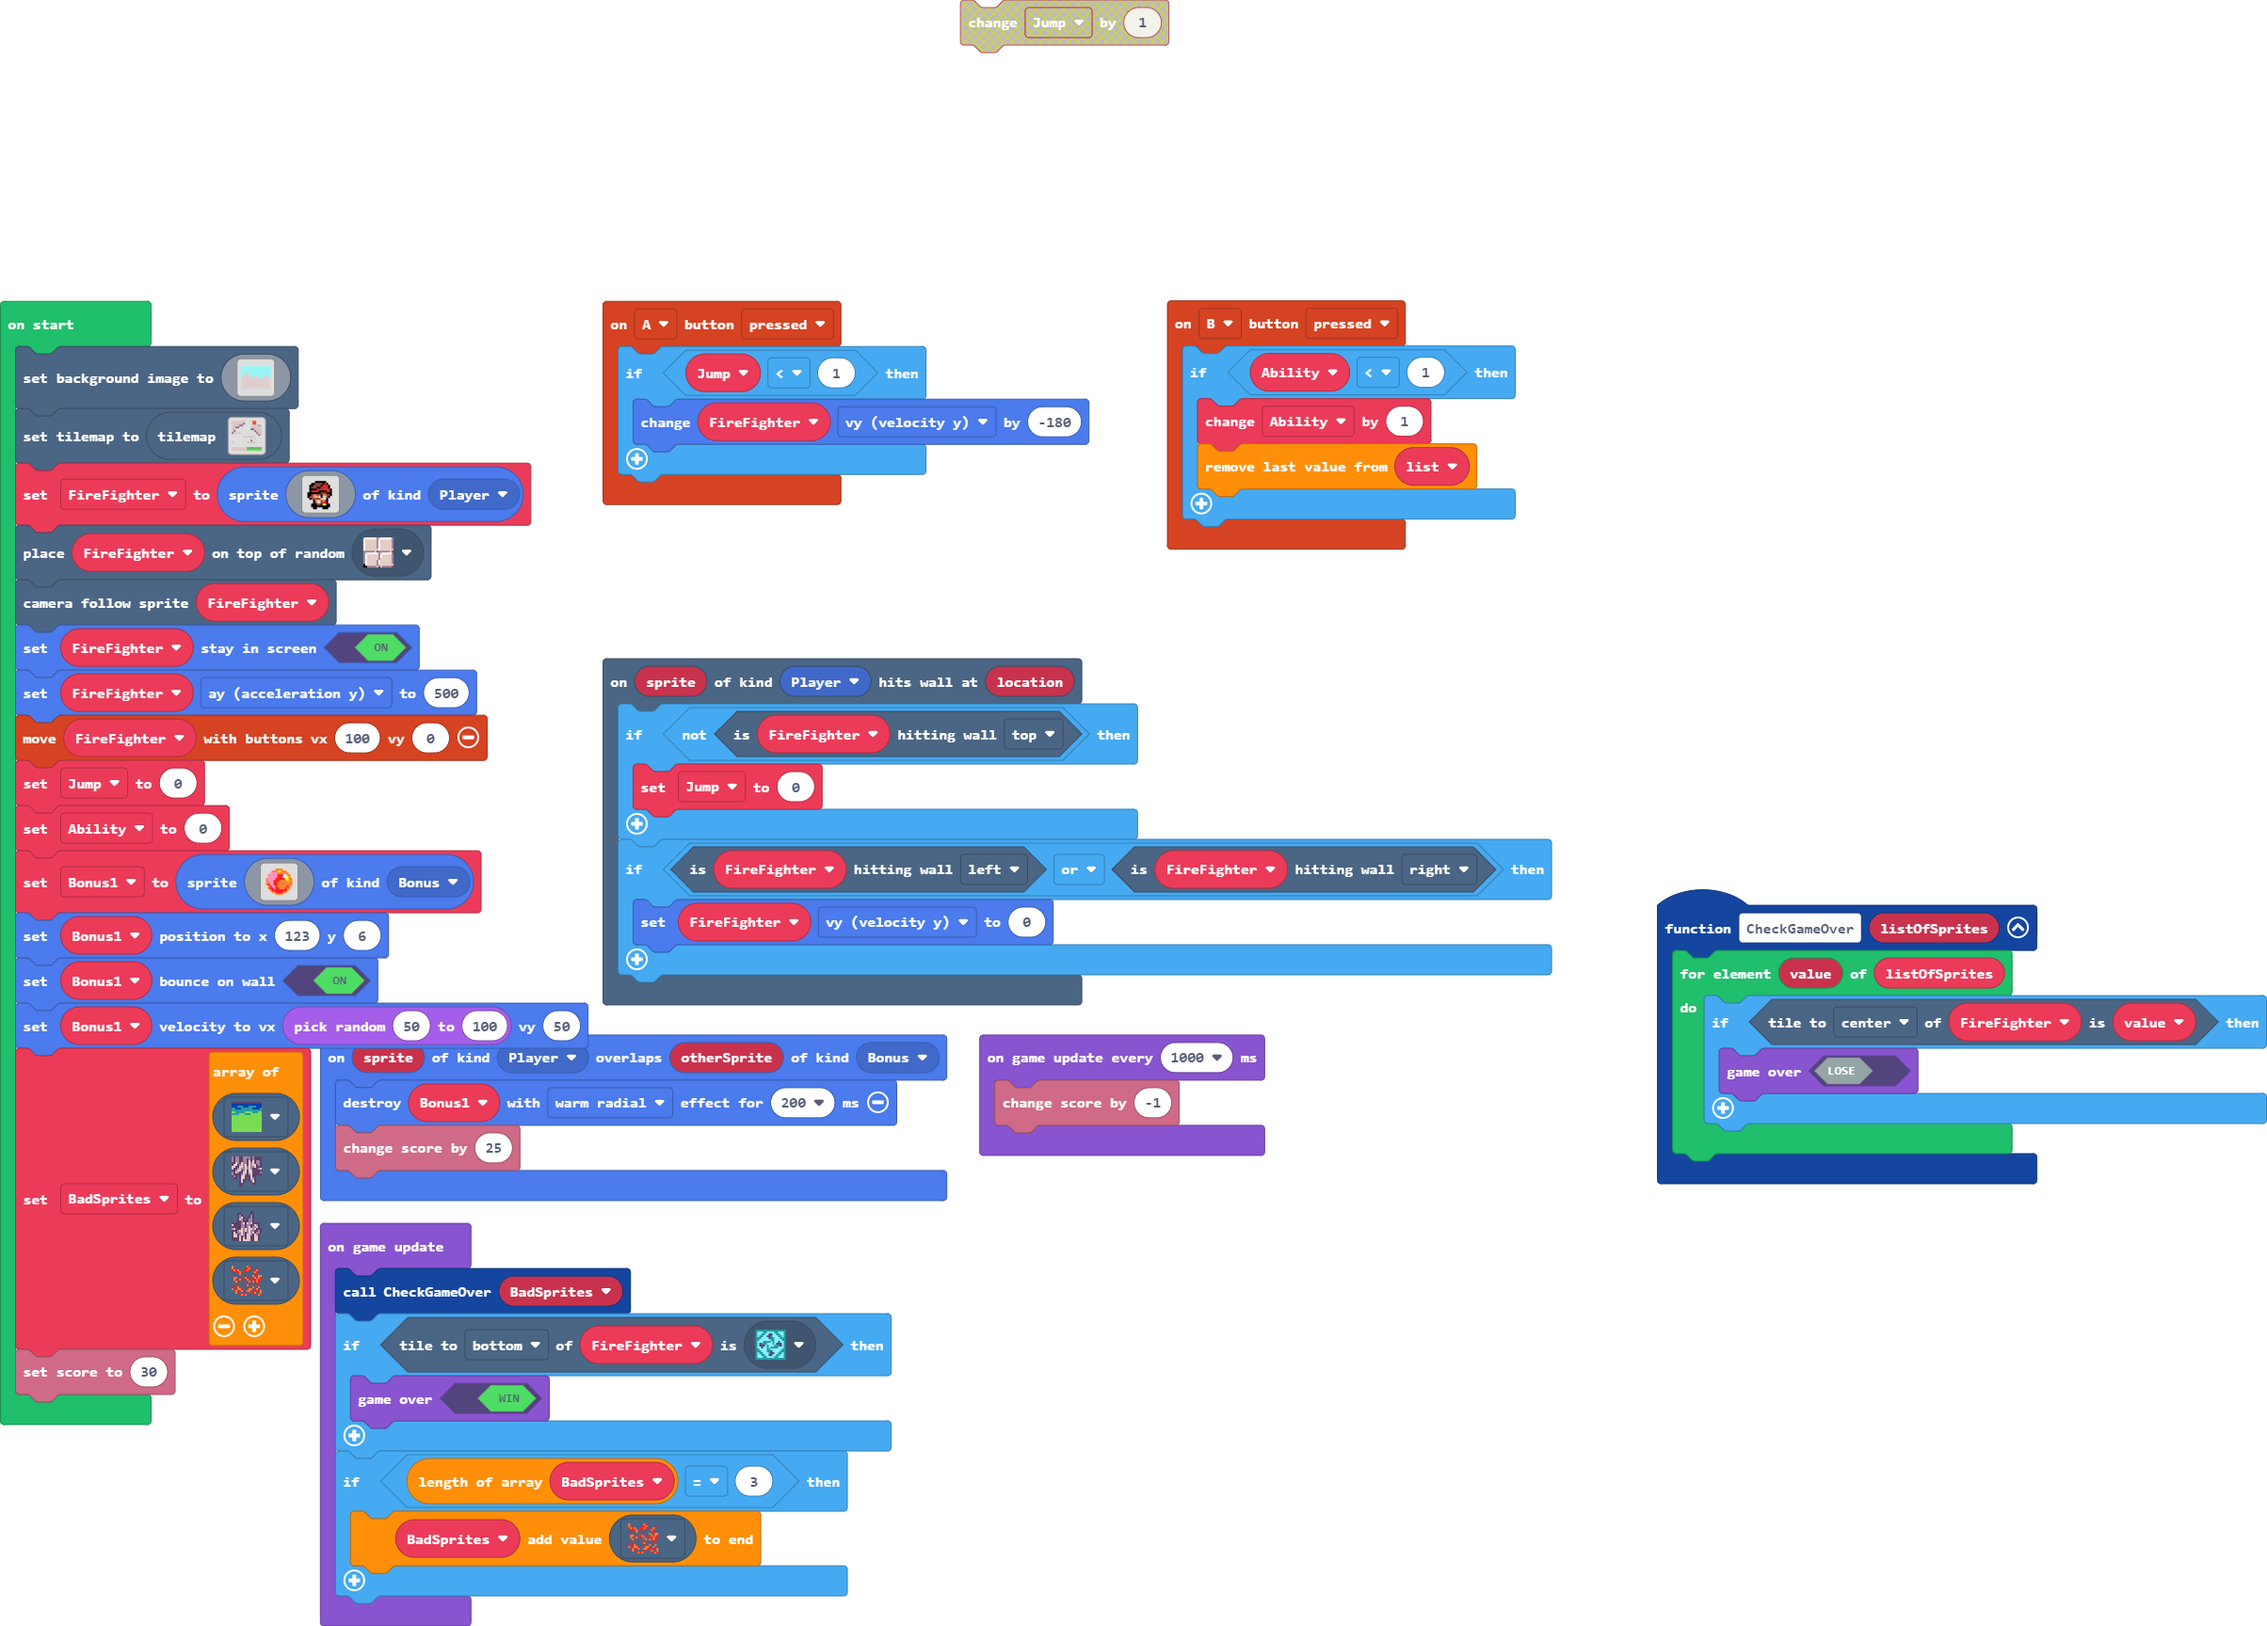
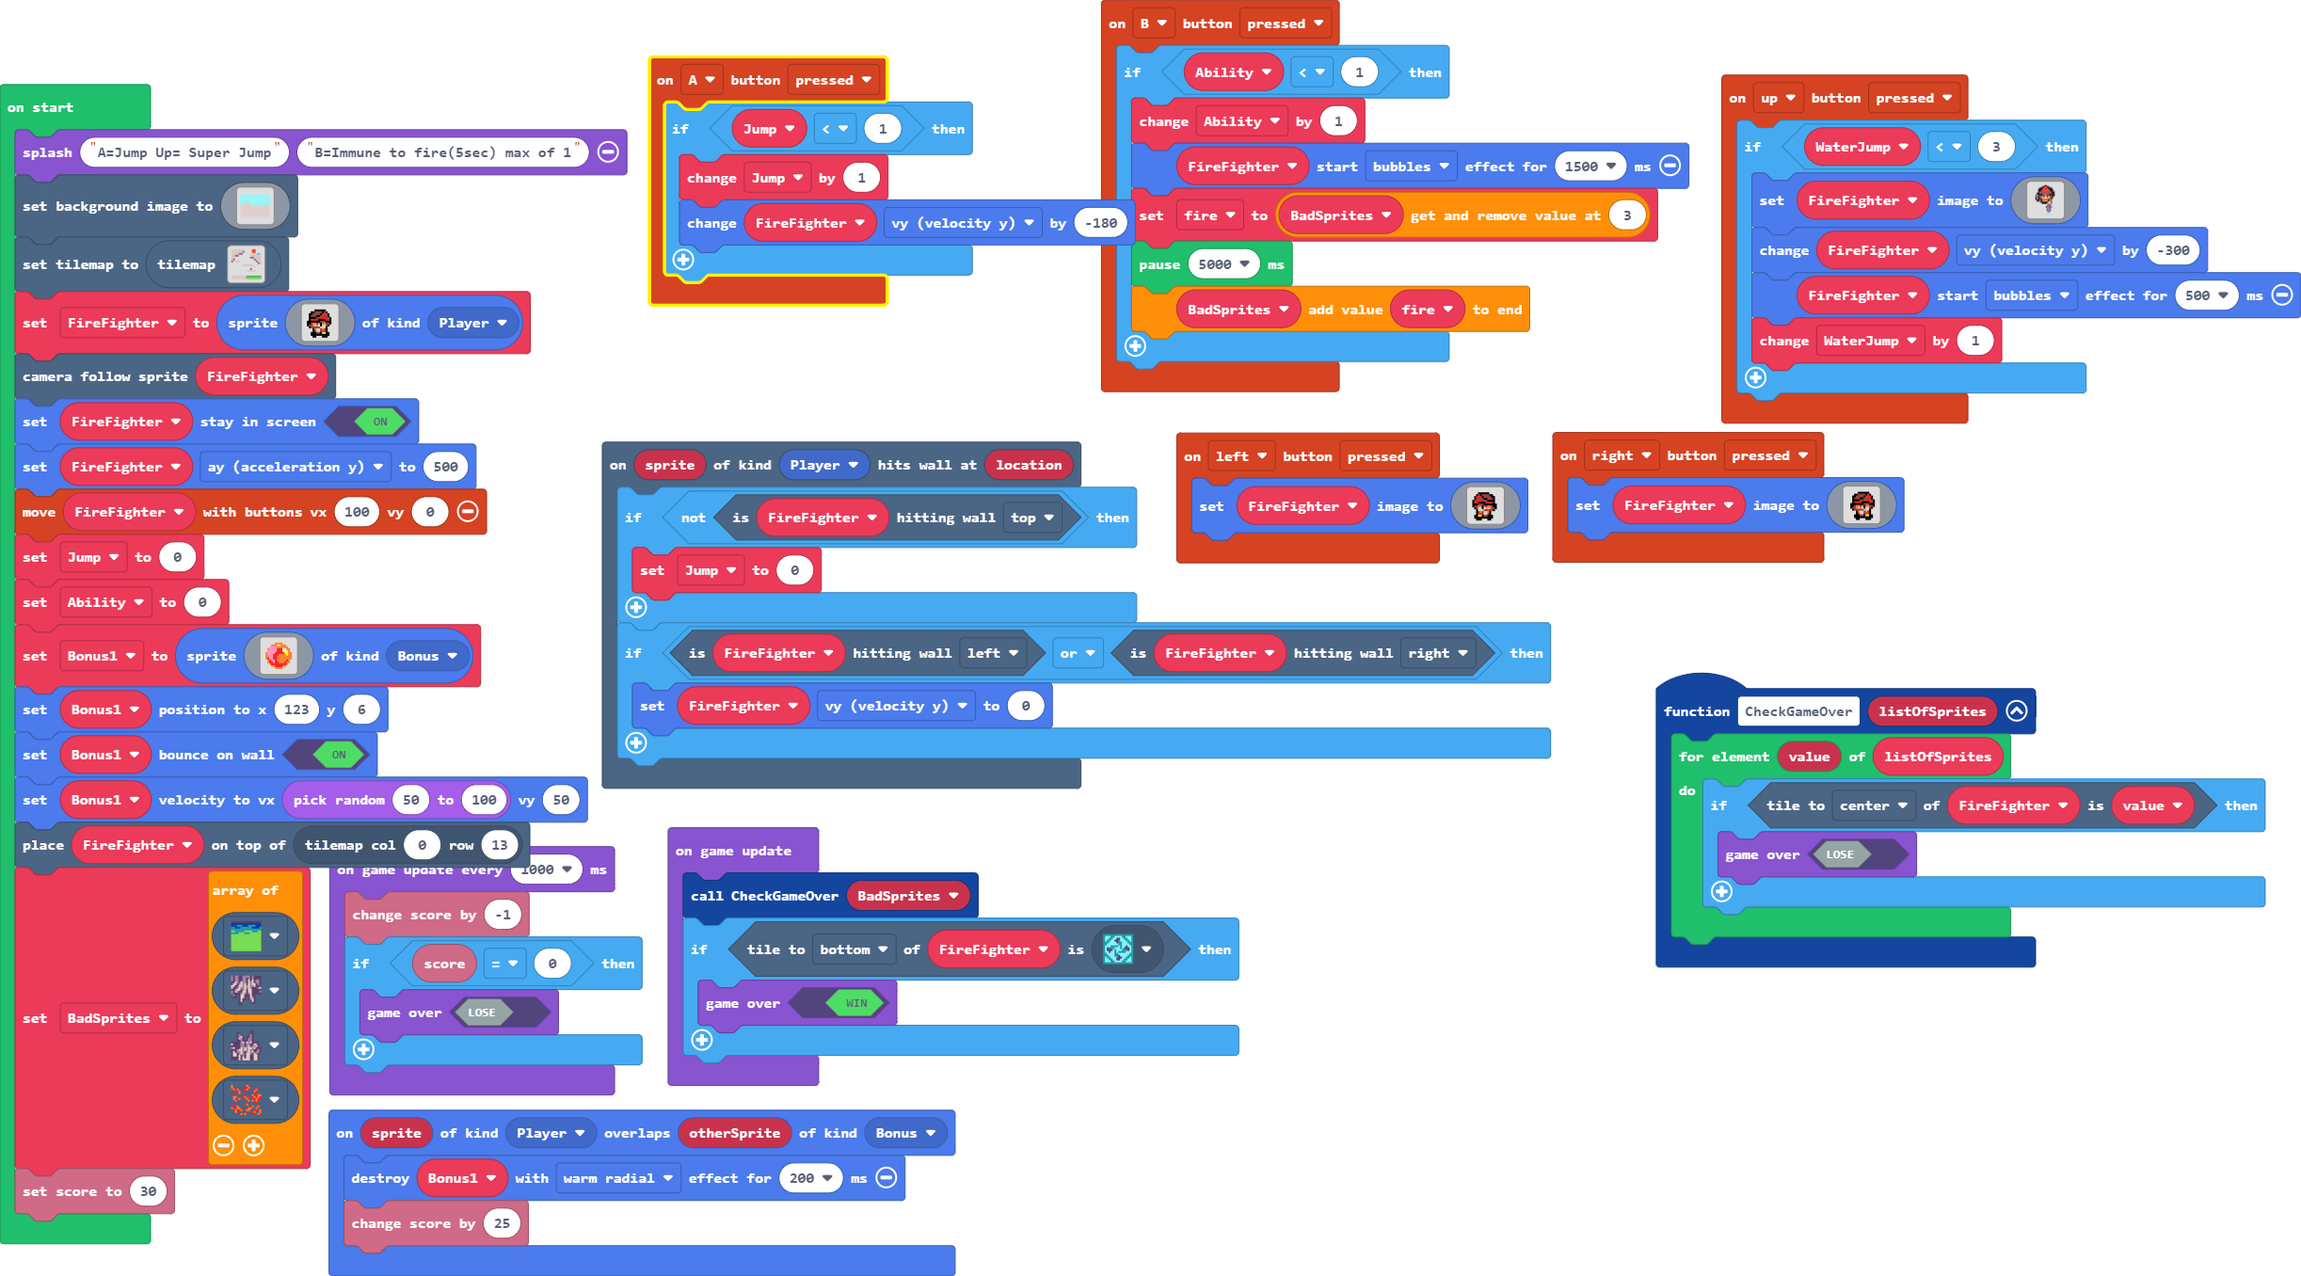
Added supper jump and ability, fixed spawn issue, character can turn

diff --git a/main.ts b/main.ts
@@ -1,6 +1,39 @@
 namespace SpriteKind {
     export const Bonus = SpriteKind.create()
 }
+controller.up.onEvent(ControllerButtonEvent.Pressed, function () {
+    if (WaterJump < 3) {
+        FireFighter.setImage(img`
+            ...........ff...........
+            .........ff22ff.........
+            .......fff2222fff.......
+            ......fff222222fff......
+            ......fff222222fff......
+            ......feeeeeeeeeeff.....
+            .....ffe22222222eff.....
+            .....fffffeeeefffff.....
+            ....fdfefbf44fbfeff.....
+            ....fbfe41fddf14ef......
+            ....fbffe4dddd4efe......
+            ....fcfef22222f4e.......
+            .....ff4f44554f4e.......
+            ........ffffffdde.......
+            .........ffffedde.......
+            ..............ee........
+            .............ccc........
+            ............ccbcc.......
+            .............cbc........
+            .............cbc........
+            .............cbc........
+            ..............c.........
+            .............999........
+            ............9.9.9.......
+            `)
+        FireFighter.vy += -300
+        FireFighter.startEffect(effects.bubbles, 500)
+        WaterJump += 1
+    }
+})
 scene.onHitWall(SpriteKind.Player, function (sprite, location) {
     if (!(FireFighter.isHittingTile(CollisionDirection.Top))) {
         Jump = 0
@@ -11,19 +44,62 @@ scene.onHitWall(SpriteKind.Player, function (sprite, location) {
 })
 controller.B.onEvent(ControllerButtonEvent.Pressed, function () {
     if (Ability < 1) {
-        let list: number[] = []
         Ability += 1
-        list.pop()
+        FireFighter.startEffect(effects.bubbles, 1500)
+        fire = BadSprites.removeAt(3)
+        pause(5000)
+        BadSprites.push(fire)
     }
 })
 controller.A.onEvent(ControllerButtonEvent.Pressed, function () {
     if (Jump < 1) {
+        Jump += 1
         FireFighter.vy += -180
     }
+})
+controller.left.onEvent(ControllerButtonEvent.Pressed, function () {
+    FireFighter.setImage(img`
+        . . . . . . . . . . . . . . . . 
+        . . . . f f f f f f . . . . . . 
+        . . . f 2 f e e e e f f . . . . 
+        . . f 2 2 2 f e e e e f f . . . 
+        . . f e e e e f f e e e f . . . 
+        . f e 2 2 2 2 e e f f f f . . . 
+        . f 2 e f f f f 2 2 2 e f . . . 
+        . f f f e e e f f f f f f f . . 
+        . f e e 4 4 f b e 4 4 e f f . . 
+        . . f e d d f 1 4 d 4 e e f . . 
+        . . . f d d d e e e e e f . . . 
+        . . . f e 4 e d d 4 f . . . . . 
+        . . . f 2 2 e d d e f . . . . . 
+        . . f f 5 5 f e e f f f . . . . 
+        . . f f f f f f f f f f . . . . 
+        . . . f f f . . . f f . . . . . 
+        `)
 })
 sprites.onOverlap(SpriteKind.Player, SpriteKind.Bonus, function (sprite, otherSprite) {
     sprites.destroy(Bonus1, effects.warmRadial, 200)
     info.changeScoreBy(25)
+})
+controller.right.onEvent(ControllerButtonEvent.Pressed, function () {
+    FireFighter.setImage(img`
+        . . . . . . . . . . . . . . . . 
+        . . . . . . f f f f f f . . . . 
+        . . . . f f e e e e f 2 f . . . 
+        . . . f f e e e e f 2 2 2 f . . 
+        . . . f e e e f f e e e e f . . 
+        . . . f f f f e e 2 2 2 2 e f . 
+        . . . f e 2 2 2 f f f f e 2 f . 
+        . . f f f f f f f e e e f f f . 
+        . . f f e 4 4 e b f 4 4 e e f . 
+        . . f e e 4 d 4 1 f d d e f . . 
+        . . . f e e e e e d d d f . . . 
+        . . . . . f 4 d d e 4 e f . . . 
+        . . . . . f e d d e 2 2 f . . . 
+        . . . . f f f e e f 5 5 f f . . 
+        . . . . f f f f f f f f f f . . 
+        . . . . . f f . . . f f f . . . 
+        `)
 })
 function CheckGameOver (listOfSprites: Image[]) {
     for (let value of listOfSprites) {
@@ -32,10 +108,14 @@ function CheckGameOver (listOfSprites: Image[]) {
         }
     }
 }
+let fire: Image = null
+let WaterJump = 0
+let BadSprites: Image[] = []
 let Bonus1: Sprite = null
 let Ability = 0
 let Jump = 0
 let FireFighter: Sprite = null
+game.splash("A=Jump Up= Super Jump", "B=Immune to fire(5sec) max of 1")
 scene.setBackgroundImage(img`
     9999999999999999999999999999999999999999999999999999999999999999999999999999999999999999999999999999999999999999999999999999999999999999999999999999999999999999
     9999999999999999999999999999999999999999999999999999999999999999999999999999999999999999999999999999999999999999999999999999999999999999999999999999999999999999
@@ -177,7 +257,6 @@ FireFighter = sprites.create(img`
     . . . f f f f f f f f f f . . . 
     . . . . f f . . . f f f . . . . 
     `, SpriteKind.Player)
-tiles.placeOnRandomTile(FireFighter, assets.tile`Spawn`)
 scene.cameraFollowSprite(FireFighter)
 FireFighter.setStayInScreen(true)
 FireFighter.ay = 500
@@ -205,7 +284,8 @@ Bonus1 = sprites.create(img`
 Bonus1.setPosition(123, 6)
 Bonus1.setBounceOnWall(true)
 Bonus1.setVelocity(randint(50, 100), 50)
-let BadSprites = [
+tiles.placeOnTile(FireFighter, tiles.getTileLocation(0, 13))
+BadSprites = [
 assets.tile`myTile`,
 assets.tile`myTile4`,
 assets.tile`myTile2`,
@@ -217,10 +297,10 @@ game.onUpdate(function () {
     if (FireFighter.tileKindAt(TileDirection.Bottom, sprites.dungeon.collectibleInsignia)) {
         game.gameOver(true)
     }
-    if (BadSprites.length == 3) {
-        BadSprites.push(assets.tile`Fire`)
-    }
 })
 game.onUpdateInterval(1000, function () {
     info.changeScoreBy(-1)
+    if (info.score() == 0) {
+        game.gameOver(false)
+    }
 })

diff --git a/tilemap.g.ts b/tilemap.g.ts
@@ -34,25 +34,6 @@ namespace myTiles {
 . . . . . . . . . . . . . . . . 
 . . . . . . . . . . . . . . . . 
 `, [myTiles.transparency16], TileScale.Sixteen);
-            case "level1":
[1 lines of base64/hex data omitted]
-2 2 2 2 2 2 2 . . . . . . . . . 
-2 2 2 2 2 2 . . . . . . . . . . 
-2 2 2 2 . . . . . . . 2 2 2 2 2 
-2 2 . . . . . . . . 2 2 2 2 2 2 
-2 2 . . . . . . . . . . 2 2 2 2 
-2 . . . . . . . . . . . . 2 2 2 
-. . 2 2 2 . . . . . . . . . 2 2 
-. . . . . . . . . . . . . . . 2 
-. . . . . . 2 2 2 2 2 2 . . . . 
-. . . . . . . . . . . . 2 . . . 
-. . . . . . . . . . . . . . . . 
-2 . . . . . . . 2 2 2 2 2 . . . 
-. . . . . . . . . . . . . . . . 
-. . . . . . . . . . . . . . . . 
-2 2 2 2 2 2 2 2 . . . . . . . . 
-2 2 2 2 2 2 2 2 . . . . . . . . 
-`, [myTiles.transparency16,sprites.dungeon.floorLight2,sprites.dungeon.collectibleInsignia,myTiles.tile1,sprites.skillmap.islandTile4,myTiles.tile4,myTiles.tile6,sprites.dungeon.floorLight4,sprites.dungeon.floorLight0,sprites.dungeon.floorLight5,sprites.dungeon.floorLight1,myTiles.tile2,myTiles.tile3], TileScale.Sixteen);
             case "level3":
             case "level3":return tiles.createTilemap(hex`1000100000000000000000000000000000000000000000000000000000000000000000000000000000000000000000000000000000000000000000000000000000000000000000000000000000000000000000000000000000000000000000000000000000000000000000000000000000000000000000000000000000000000000000000000000000000000000000000000000000000000000000000000000000000000000000000000000000000000000000000000000000000000000000000000000000000000000000000000000000000000000000000000000000000000000000000000000000000000000000000000000000000000000000000000000000000000`, img`
 . . . . . . . . . . . . . . . . 
@@ -72,6 +53,25 @@ namespace myTiles {
 . . . . . . . . . . . . . . . . 
 . . . . . . . . . . . . . . . . 
 `, [myTiles.transparency16], TileScale.Sixteen);
+            case "level1":
[1 lines of base64/hex data omitted]
+2 2 2 2 2 2 2 . . . . . . . . . 
+2 2 2 2 2 2 . . . . . . . . . . 
+2 2 2 2 . . . . . . . 2 2 2 2 2 
+2 2 . . . . . . . . 2 2 2 2 2 2 
+2 2 . . . . . . . . . . 2 2 2 2 
+2 . . . . . . . . . . . . 2 2 2 
+. . 2 2 2 . . . . . . . . . 2 2 
+. . . . . . . . . . . . . . . 2 
+. . . . . . 2 2 2 2 2 2 . . . . 
+. . . . . . . . . . . . 2 . . . 
+. . . . . . . . . . . . . . . . 
+. . . . . . . . 2 2 2 2 2 . . . 
+. . . . . . . . . . . . . . . . 
+. . . . . . . . . . . . . . . . 
+2 2 2 2 2 2 2 2 . . . . . . . . 
+2 2 2 2 2 2 2 2 . . . . . . . . 
+`, [myTiles.transparency16,sprites.dungeon.floorLight2,sprites.dungeon.collectibleInsignia,myTiles.tile1,sprites.skillmap.islandTile4,myTiles.tile4,myTiles.tile6,sprites.dungeon.floorLight4,sprites.dungeon.floorLight0,sprites.dungeon.floorLight5,sprites.dungeon.floorLight1,myTiles.tile2], TileScale.Sixteen);
         }
         return null;
     })
